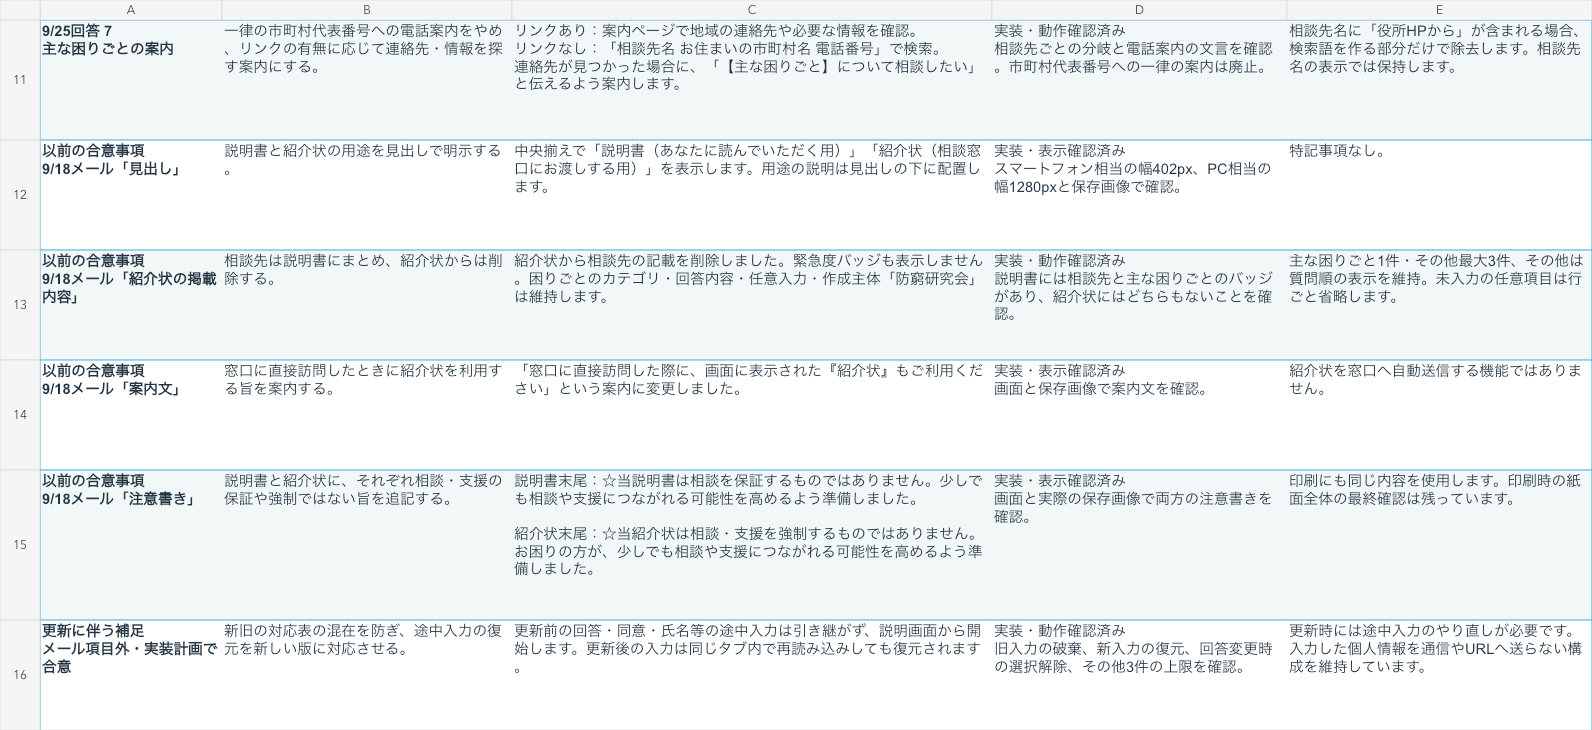
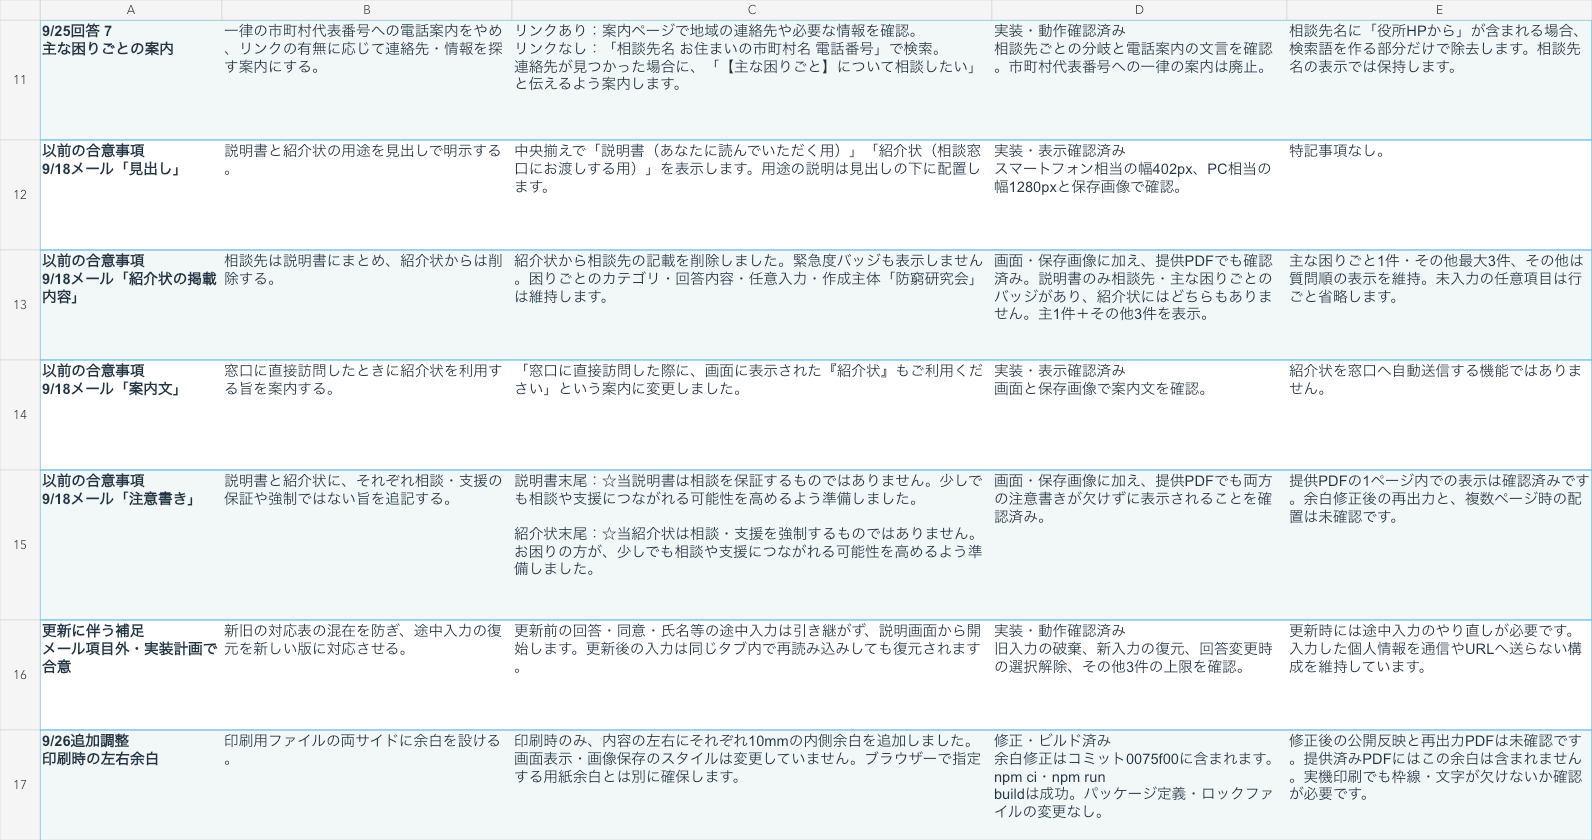
Add print margins and update referral letter review

Changed region(s): [[0.0, 0.1507, 1.0, 0.8137], [0.0, 0.0, 1.0, 0.1205], [0.0, 0.8438, 1.0, 0.9945]]

diff --git a/dashboard/src/components/referral-letter/print.css b/dashboard/src/components/referral-letter/print.css
@@ -56,7 +56,7 @@
     box-sizing: border-box;
     margin: 0;
     /* Keep a safe inset even when the print dialog uses no page margins. */
-    padding: 0 10mm;
+    padding: 10mm;
     background: #fff !important;
     color: #000;
     -webkit-print-color-adjust: exact;
